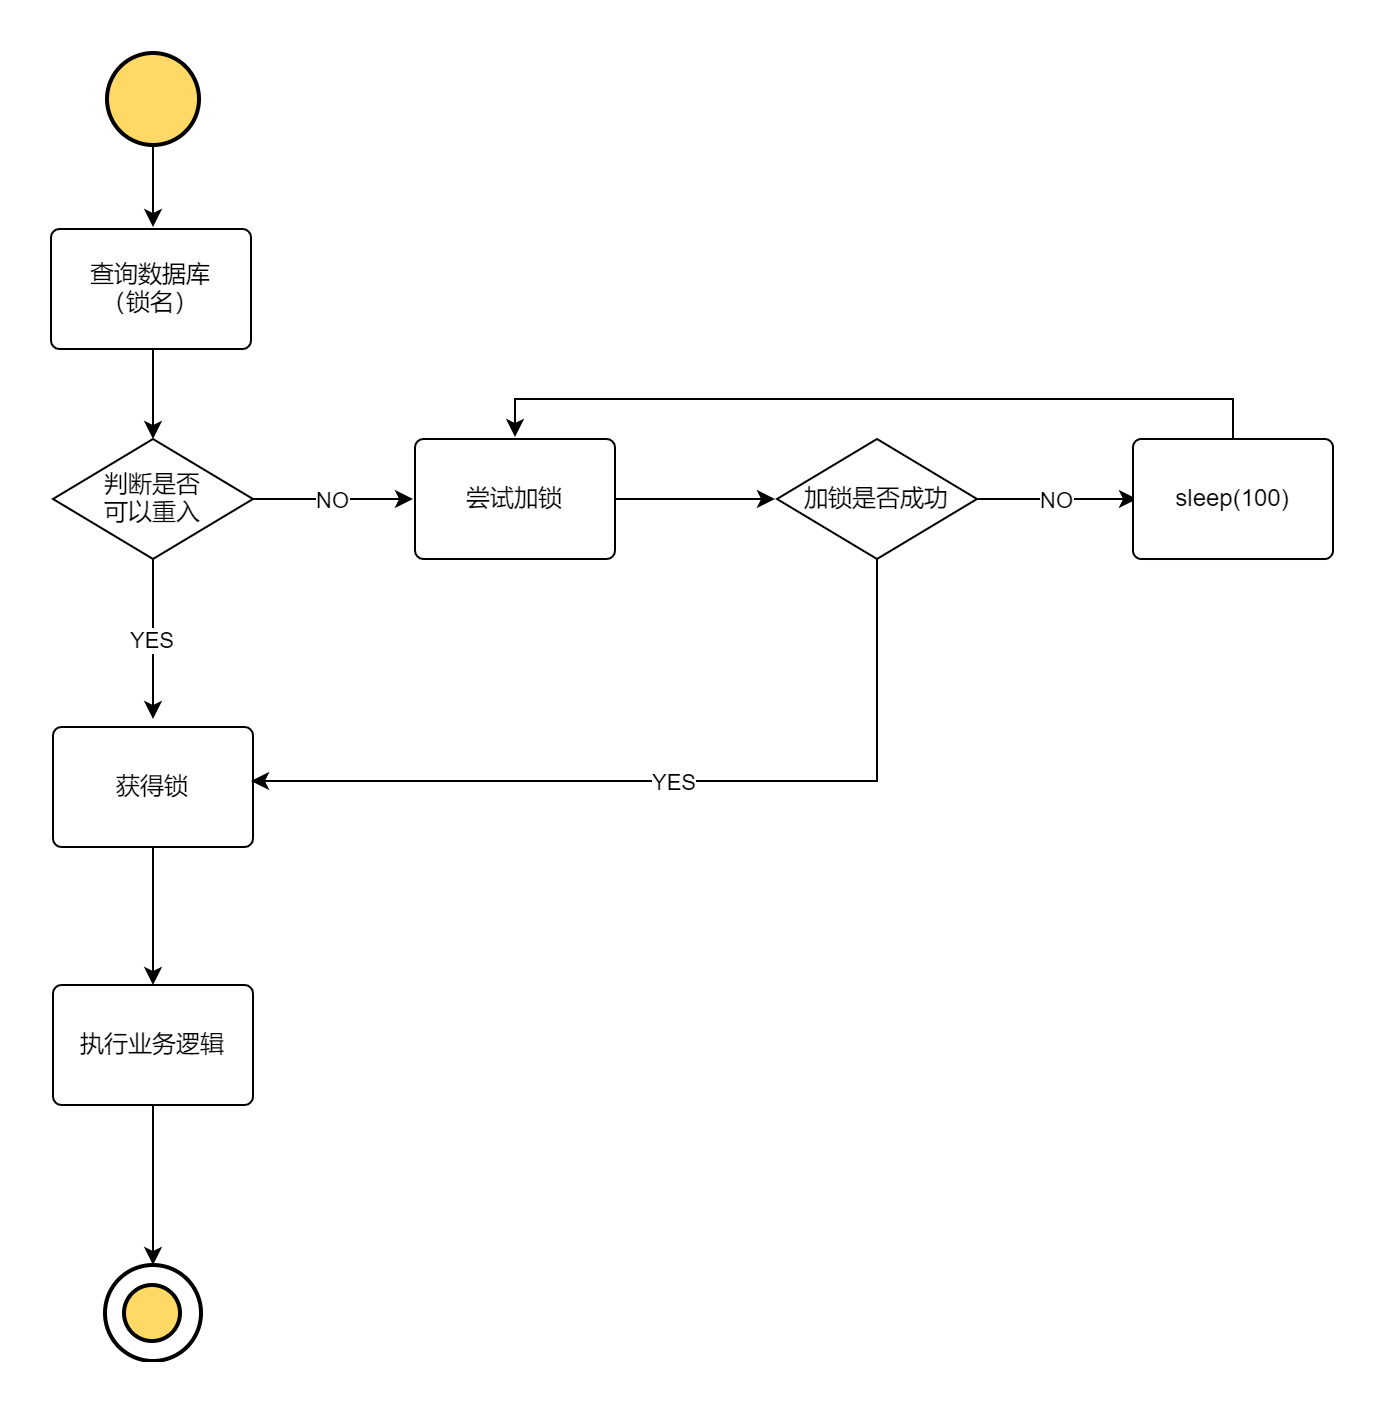
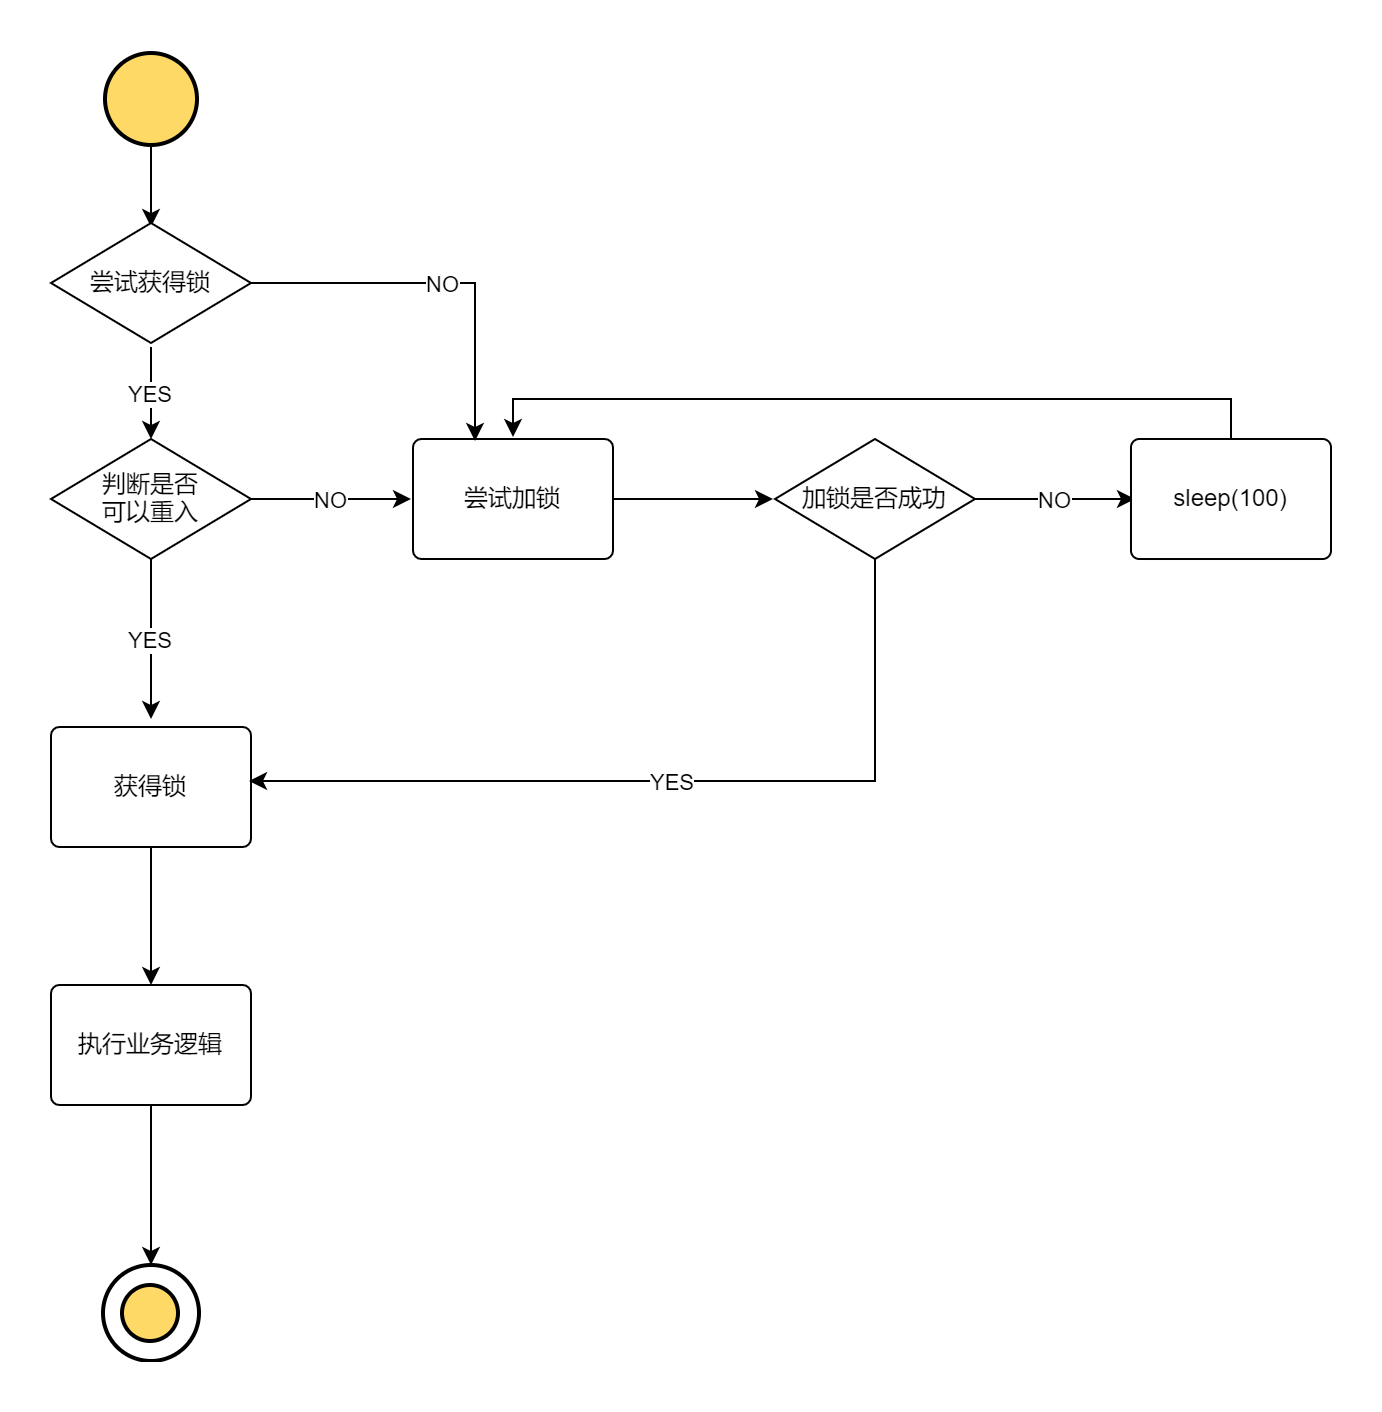
Improve

diff --git a/docs/分布式/分布式锁.md b/docs/分布式/分布式锁.md
@@ -24,11 +24,221 @@
 
 ## 实现方式
 
-### MySQL
+整体流程：
 
 ![](../../images/20220227-2.png)
 
+### MySQL
+
+基于数据库的分布式锁, 常用的一种方式是使用表的唯一约束特性。当往数据库中成功插入一条数据时, 代表只获取到锁。将这条数据从数据库中删除，则释放锁。
+
+我们需要创建一张表：
+
+```sql
+CREATE TABLE `methodLock` (
+  `id` int(11) NOT NULL AUTO_INCREMENT COMMENT '主键',
+  `method_name` varchar(64) NOT NULL DEFAULT '' COMMENT '锁定的方法名',
+  `cust_id` varchar(1024) NOT NULL DEFAULT '客户端唯一编码',
+  `update_time` timestamp NOT NULL DEFAULT CURRENT_TIMESTAMP ON UPDATE CURRENT_TIMESTAMP COMMENT '保存数据时间，自动生成',
+  PRIMARY KEY (`id`),
+  UNIQUE KEY `uidx_method_name` (`method_name `) USING BTREE
+) ENGINE=InnoDB DEFAULT CHARSET=utf8;
+```
+
+添加锁：
+
+```sql
+insert into methodLock(method_name,cust_id) values (?, ?);
+```
+
+这里 cust_id 可以是机器的 mac 地址 + 线程编号, 确保一个线程只有唯一的一个编号。通过这个编号， 可以有效的判断是否为锁的创建者，从而进行锁的释放以及重入锁判断。
+
+释放锁：
+
+```sql
+delete from methodLock where method_name = ? and cust_id = ?;
+```
+
+重入锁判断:
+
+```sql
+select 1 from methodLock where method_name = ? and cust_id = ?;
+```
+
+#### 优点
+
+操作简单，容易理解。
+
+#### 缺点
+
+性能开销大。
+
 ### Redis
 
+下面采用层层递进的方式，一步步优化 Redis 分布式锁的实现方式，解决各种各样的缺陷。
+
+#### 最基础的实现方式
+
+想要实现分布式锁，必须要求 Redis 有「互斥」的能力，我们可以使用 SETNX 命令，这个命令表示SET if Not eXists，即如果 key 不存在，才会设置它的值，否则什么也不做。
+
+两个客户端进程可以执行这个命令，达到互斥，就可以实现一个分布式锁。
+
+客户端 1 申请加锁，加锁成功：
+
+```bash
+127.0.0.1:6379> SETNX lock 1
+(integer) 1     // 客户端1，加锁成功
+```
+
+客户端 2 申请加锁，因为后到达，加锁失败：
+
+```bash
+127.0.0.1:6379> DEL lock // 释放锁
+(integer) 1
+```
+
+此时，加锁成功的客户端，就可以去操作「共享资源」，例如，修改 MySQL 的某一行数据，或者调用一个 API 请求。
+
+操作完成后，还要及时释放锁，给后来者让出操作共享资源的机会。如何释放锁呢？
+
+也很简单，直接使用 DEL 命令删除这个 key 即可：
+
+```bash
+127.0.0.1:6379> DEL lock // 释放锁
+(integer) 1
+```
+
+这个逻辑非常简单，整体的路程就是这样：
+
+![](../../images/20220228-1.jpg)
+
+但是，它存在一个很大的问题，当客户端 1 拿到锁后，如果发生下面的场景，就会造成「死锁」：
+
+1. 程序处理业务逻辑异常，没及时释放锁
+2. 进程挂了，没机会释放锁
+
+这时，这个客户端就会一直占用这个锁，而其它客户端就「永远」拿不到这把锁了。
+
+#### 使用 EX 解决「死锁」问题
+
+在 Redis 2.6.12 版本之前，我们需要想尽办法，保证 SETNX 和 EXPIRE 原子性执行，还要考虑各种异常情况如何处理。
+
+但在 Redis 2.6.12 之后，Redis 扩展了 SET 命令的参数，用这一条命令就可以了：
+
+```bash
+// 一条命令保证原子性执行
+127.0.0.1:6379> SET lock 1 EX 10 NX
+OK
+```
+
+这样就解决了死锁问题，也比较简单。
+
+我们再来看分析下，它还有什么问题？
+
+试想这样一种场景：
+
+1. 客户端 1 加锁成功，开始操作共享资源
+2. 客户端 1 操作共享资源的时间，「超过」了锁的过期时间，锁被「自动释放」
+3. 客户端 2 加锁成功，开始操作共享资源
+4. 客户端 1 操作共享资源完成，释放锁（但释放的是客户端 2 的锁）
+
+这里存在两个严重的问题：
+1. <strong>锁过期</strong>：客户端 1 操作共享资源耗时太久，导致锁被自动释放，之后被客户端 2 持有
+2. <strong>释放别人的锁</strong>：客户端 1 操作共享资源完成后，却又释放了客户端 2 的锁
+
+对于锁过期，我们并不能给定一个固定的过期时间，覆盖到所有的可能出现的情况，所以我们需要一个新的方法来解决这个问题。而对于释放别人的锁，我们可以加锁时使用 UUID 来解决。
+
+#### 使用 UUID 解决释放他人锁的问题
+
+解决办法是：客户端在加锁时，设置一个只有自己知道的「唯一标识」进去。
+
+例如，可以是自己的线程 ID，也可以是一个 UUID（随机且唯一），这里我们以 UUID 举例：
+
+```bash
+// 锁的VALUE设置为UUID
+127.0.0.1:6379> SET lock $uuid EX 20 NX
+OK
+```
+
+这里假设 20s 操作共享时间完全足够，先不考虑锁自动过期的问题。
+
+之后，在释放锁时，要先判断这把锁是否还归自己持有，伪代码可以这么写：
+
+```
+// 锁是自己的，才释放
+if redis.get("lock") == $uuid:
+    redis.del("lock")
+```
+
+判断 UUID 和删除锁的操作必须保证原子执行才行。
+
+1. 客户端 1 执行 GET，判断锁是自己的
+2. 客户端 2 执行了 SET 命令，强制获取到锁（虽然发生概率比较低，但我们需要严谨地考虑锁的安全性模型）
+3. 客户端 1 执行 DEL，却释放了客户端 2 的锁
+
+由此可见，这两个命令还是必须要原子执行才行。
+
+我们可以把这个逻辑，写成 Lua 脚本，让 Redis 来执行。
+
+因为 Redis 处理每一个请求是「单线程」执行的，在执行一个 Lua 脚本时，其它请求必须等待，直到这个 Lua 脚本处理完成，这样一来，GET + DEL 之间就不会插入其它命令了。
+
+安全释放锁的 Lua 脚本如下：
+
+```bash
+// 判断锁是自己的，才释放
+if redis.call("GET",KEYS[1]) == ARGV[1]
+then
+    return redis.call("DEL",KEYS[1])
+else
+    return 0
+end
+```
+
+现在这个分布式锁已经越来越严禁了。
+
+这里我们先小结一下，基于 Redis 实现的分布式锁，一个严谨的的流程如下：
+
+1. 加锁：SET $lock_key $unique_id EX $expire_time NX
+2. 操作共享资源
+3. 释放锁：Lua 脚本，先 GET 判断锁是否归属自己，再 DEL 释放锁
+
+![](../../images/20220228-2.jpg)
+
+好，有了这个完整的锁模型，让我们重新回到前面提到的第一个问题。
+
+锁过期时间不好评估怎么办？
+
+#### 使用守护线程解决固定过期时间的问题
+
+加锁时，先设置一个过期时间，然后我们开启一个「守护线程」，定时去检测这个锁的失效时间，如果锁快要过期了，操作共享资源还未完成，那么就自动对锁进行「续期」，重新设置过期时间。
+
+如果你是 Java 技术栈，幸运的是，已经有一个库把这些工作都封装好了：Redisson。
+
+Redisson 是一个 Java 语言实现的 Redis SDK 客户端，在使用分布式锁时，它就采用了「自动续期」的方案来避免锁过期，这个守护线程我们一般也把它叫做「看门狗」线程。
+
+这个 SDK 提供的 API 非常友好，它可以像操作本地锁的方式，操作分布式锁。如果你是 Java 技术栈，可以直接把它用起来。
+
+上面分析的 Redis 实现的分布式锁都没考虑到多实例部署的情况，而我们在使用 Redis 时，一般会采用主从集群 + 哨兵的模式部署，这样做的好处在于，当主库异常宕机时，哨兵可以实现「故障自动切换」，把从库提升为主库，继续提供服务，以此保证可用性。
+
+那当「主从发生切换」时，这个分布锁会依旧安全吗？
+
+试想这样的场景：
+
+1. 客户端 1 在主库上执行 SET 命令，加锁成功
+2. 此时，主库异常宕机，SET 命令还未同步到从库上（主从复制是异步的）
+3. 从库被哨兵提升为新主库，这个锁在新的主库上，丢失了！
+
+可见，当引入 Redis 副本后，分布锁还是可能会受到影响。
+
+#### 使用 Redlock 解决主从复制锁丢失的问题
+
 ### Zookeeper
+
+## 思考
+
+### 分布式锁和乐观锁的比较
+
+### Redis 分布式锁守护线程相比于不设置过期时间的意义
+
+### Redis 分布式锁守护线程的原理
 
